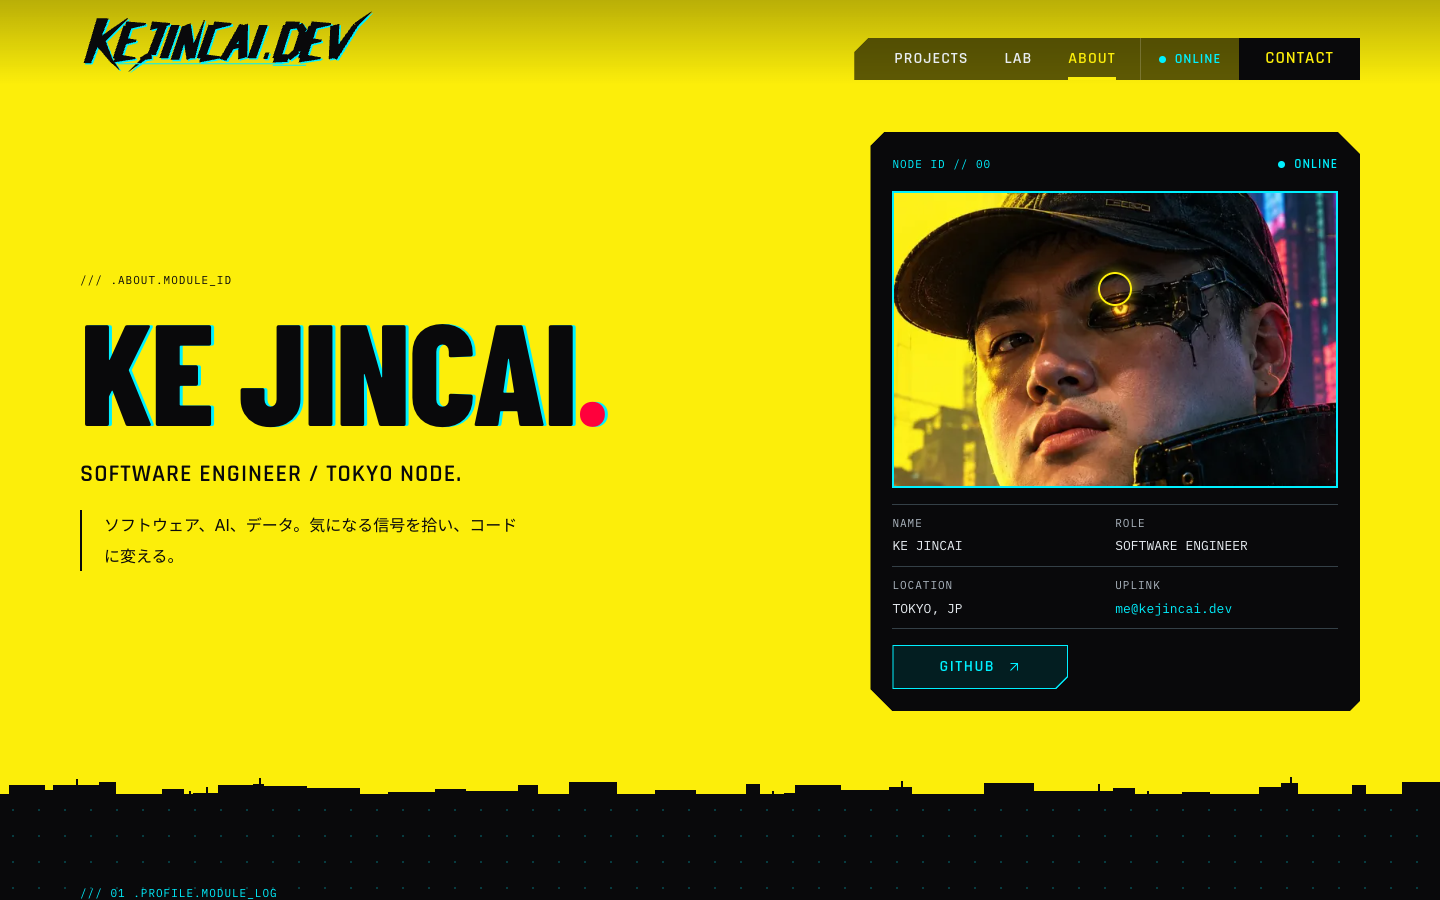
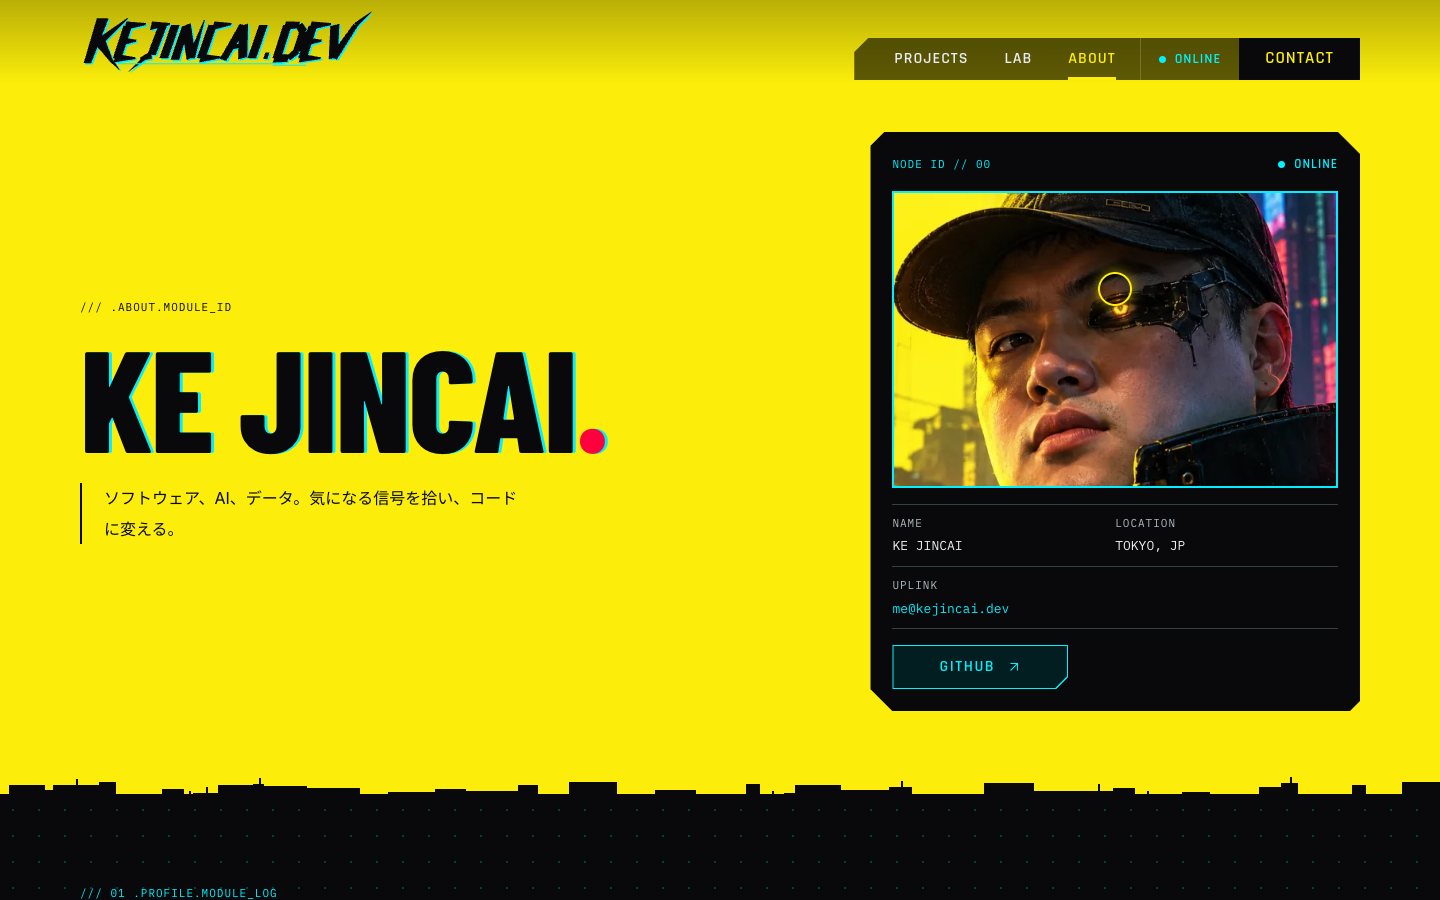
Drop the role label from About
The About hero loses its "SOFTWARE ENGINEER / TOKYO NODE." line, the ID
card its ROLE field (NAME and LOCATION now share a row, the uplink spans
the next), and the page description no longer calls the owner a
software engineer. The design notes record that self-applied labels
were removed across Home, the share image and About.

diff --git a/src/styles/global.css b/src/styles/global.css
@@ -1974,12 +1974,6 @@ a.cp-button:focus-visible::before {
   letter-spacing: -2px;
   text-shadow: 3px 0 var(--cyan);
 }
-.about-hero-role {
-  font-family: 'Rajdhani', sans-serif;
-  font-size: 24px;
-  font-weight: 600;
-  letter-spacing: 1px;
-}
 .about-hero-lead {
   max-width: 44ch;
   margin-top: 18px;
@@ -2052,6 +2046,10 @@ a.cp-button:focus-visible::before {
 }
 .id-card-data > div:nth-child(odd) {
   padding-right: 12px;
+}
+/* NAME and LOCATION share a row; the uplink address gets its own. */
+.id-card-data > div:last-child {
+  grid-column: 1 / -1;
 }
 .id-card-data dd {
   margin: 4px 0 0;
@@ -2190,9 +2188,6 @@ a.cp-button:focus-visible::before {
   }
   .about-hero-inner {
     padding-block: 32px 48px;
-  }
-  .about-hero-role {
-    font-size: 19px;
   }
   .id-card-data {
     grid-template-columns: 1fr;

diff --git a/docs/design/README.md b/docs/design/README.md
@@ -18,6 +18,8 @@ The owner then asked for the layout to follow cyberpunk.net more closely. This p
 
 The About page follows the same system: a yellow ID band with the portrait cropped to the face on an ID card, a profile log in the news-module style and the interests; its stat strip and closing uplink band were later removed because they repeated Home. Home itself was then reduced to a single screen (hero, portrait radar, directives and the mailto row). The earlier tagline 構築。解析。記録。 was replaced by the imperative 接続せよ。構築せよ。記録せよ。 with HUD tags, closer to the game's mission-directive voice.
 
+Self-applied labels were dropped at the owner's request: no role or skill line in the Home hero, the share image or the About ID card; identity is the name, the directives and the work itself.
+
 The portrait is the one exception to "no game artwork or logos": it contains the Cyberpunk 2077 wordmark and is kept whole because the owner asked for the complete image. Phones show only the logo in the header; navigation there goes through in-page actions and the footer. Mobile Safari needs `text-size-adjust: 100%` and no `aspect-ratio` combined with `min-height`, otherwise pinch zoom widens the layout.
 
 ## References
